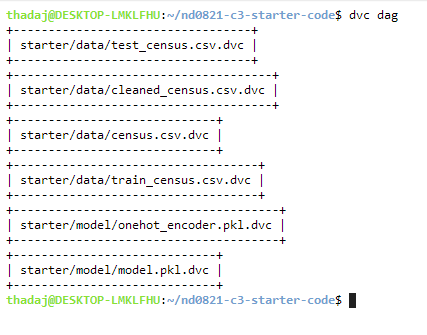
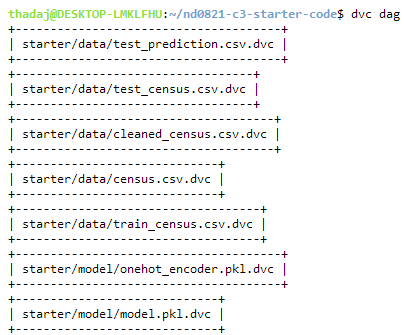
Update pytest functions for API

Changed region(s): [[0.0, 0.0299, 0.9595, 1.0]]

diff --git a/starter/test_main.py b/starter/test_main.py
@@ -1,52 +1,50 @@
 from fastapi.testclient import TestClient
 
 # Import our app from main.py.
+import os
+import pytest
+import pandas as pd
 from .main import app
 
 # Instantiate the testing client with our app.
 client = TestClient(app)
 
+@pytest.fixture
+def positive_samples():
+    df = pd.read_csv(os.path.join(
+        'starter',
+        'data',
+        'test_prediction.csv')
+    )
+    samples = df[df['prediction']=='>50K'].sample(n=10,random_state=9).drop(columns = ['salary', 'prediction']).to_dict('record')
+    return samples
+
+@pytest.fixture
+def negative_samples():
+    df = pd.read_csv(os.path.join(
+        'starter',
+        'data',
+        'test_prediction.csv')
+    )
+    samples = df[df['prediction']=='<=50K'].sample(n=10,random_state=9).drop(columns = ['salary', 'prediction']).to_dict('record')
+    return samples
+
+
 # Write tests using the same syntax as with the requests module.
 def test_rootaddress():
     r = client.get("/")
     assert r.status_code == 200
+    assert r.json() == {"welcome message":"Hi, Welcome!!"}
     
-def test_get_prediction1():
-    input_sample = {"age": "39",
-                "workclass": "State-gov",
-                "fnlgt": "77516",
-                "education": "Bachelors",
-                "education-num": "13",
-                "marital-status": "Never-married",
-                "occupation": "Adm-clerical",
-                "relationship": "Not-in-family",
-                "race": "White",
-                "sex": "Male",
-                "capital-gain": "2174",
-                "capital-loss": "0",
-                "hours-per-week": "40",
-                "native-country": "United-States"}    
+def test_get_prediction_negative(negative_samples):
     
-    r = client.post(url = "/predict", json = input_sample)
-    assert r.status_code == 200     
+    for input_sample in negative_samples:
+        r = client.post(url = "/predict", json = input_sample)
+        assert r.status_code == 200  
+        assert r.json() == {"result": "<=50K"}
     
-def test_get_prediction2():
-    # insert some 1 strange feature (native-country) and see if model still be able to get prediction 
-    input_sample = {"age": 39,
-                "workclass": "State-gov",
-                "fnlgt": "77516",
-                "education": "Bachelors",
-                "education-num": "13",
-                "marital-status": "Never-married",
-                "occupation": "Adm-clerical",
-                "relationship": "Not-in-family",
-                "race": "White",
-                "sex": "Male",
-                "capital-gain": "2174",
-                "capital-loss": "0",
-                "hours-per-week": "40",
-                "native-country": "Strange-Country"}    
-    
-    
-    r = client.post(url = "/predict", json = input_sample)
-    assert r.status_code == 200, r.status_code       
+def test_get_prediction_positive(positive_samples):
+    for input_sample in positive_samples:
+        r = client.post(url = "/predict", json = input_sample)
+        assert r.status_code == 200  
+        assert r.json() == {"result": ">50K"}   

diff --git a/train_model.py b/train_model.py
@@ -10,7 +10,8 @@ from sklearn.model_selection import train_test_split
 
 # Add the necessary imports for the starter code.
 from starter.starter.ml.data import process_data
-from starter.starter.ml.model import train_model, compute_model_metrics, performance_on_slices, Model
+from starter.starter.ml.model import train_model, compute_model_metrics
+from starter.starter.ml.model import performance_on_slices, Model, inference
 
 # Add code to load in the data.
 data = pd.read_csv(os.path.join('starter', 'data', 'cleaned_census.csv'))
@@ -61,4 +62,14 @@ performance_by_group.to_csv(
         'starter',
         'data',
         'performance_by_group.csv'),
+    index=False)
+
+# Inference
+preds = inference(model, test)
+test['prediction'] = preds
+test.to_csv(
+    os.path.join(
+        'starter',
+        'data',
+        'test_prediction.csv'),
     index=False)

diff --git a/starter/starter/test_slice.py b/starter/starter/test_slice.py
@@ -37,7 +37,7 @@ def test_inference(traindata, testdata):
     model = Model(preprocessor = process_data)
     model.load_weights('model.pkl', 'onehot_encoder.pkl')
     os.system('rm model.pkl')
-    os.system('onehot_encoder.pkl')
+    os.system('rm onehot_encoder.pkl')
   
 
     # test inference case (without salary, and return  return predicted result

diff --git a/results/model_card.md b/results/model_card.md
@@ -18,7 +18,7 @@ The data was obtained from the UCI Machine Learning Repository (https://archive.
 
 ## Metrics
 
-fbeta is used in this project. Overall performance is fbeta=0.72 Perfomance of the test data by groups can be found at ./data/performance_by_group.csv
+fbeta is used in this project. Overall performance is fbeta=0.71 Perfomance of the test data by groups can be found at ./data/performance_by_group.csv
 
 ## Bias
 The majority of the data is from race=White (N=27,816) so the perfomance of other races may drops (please see more bias detail at ./data/performance_by_group.csv)
